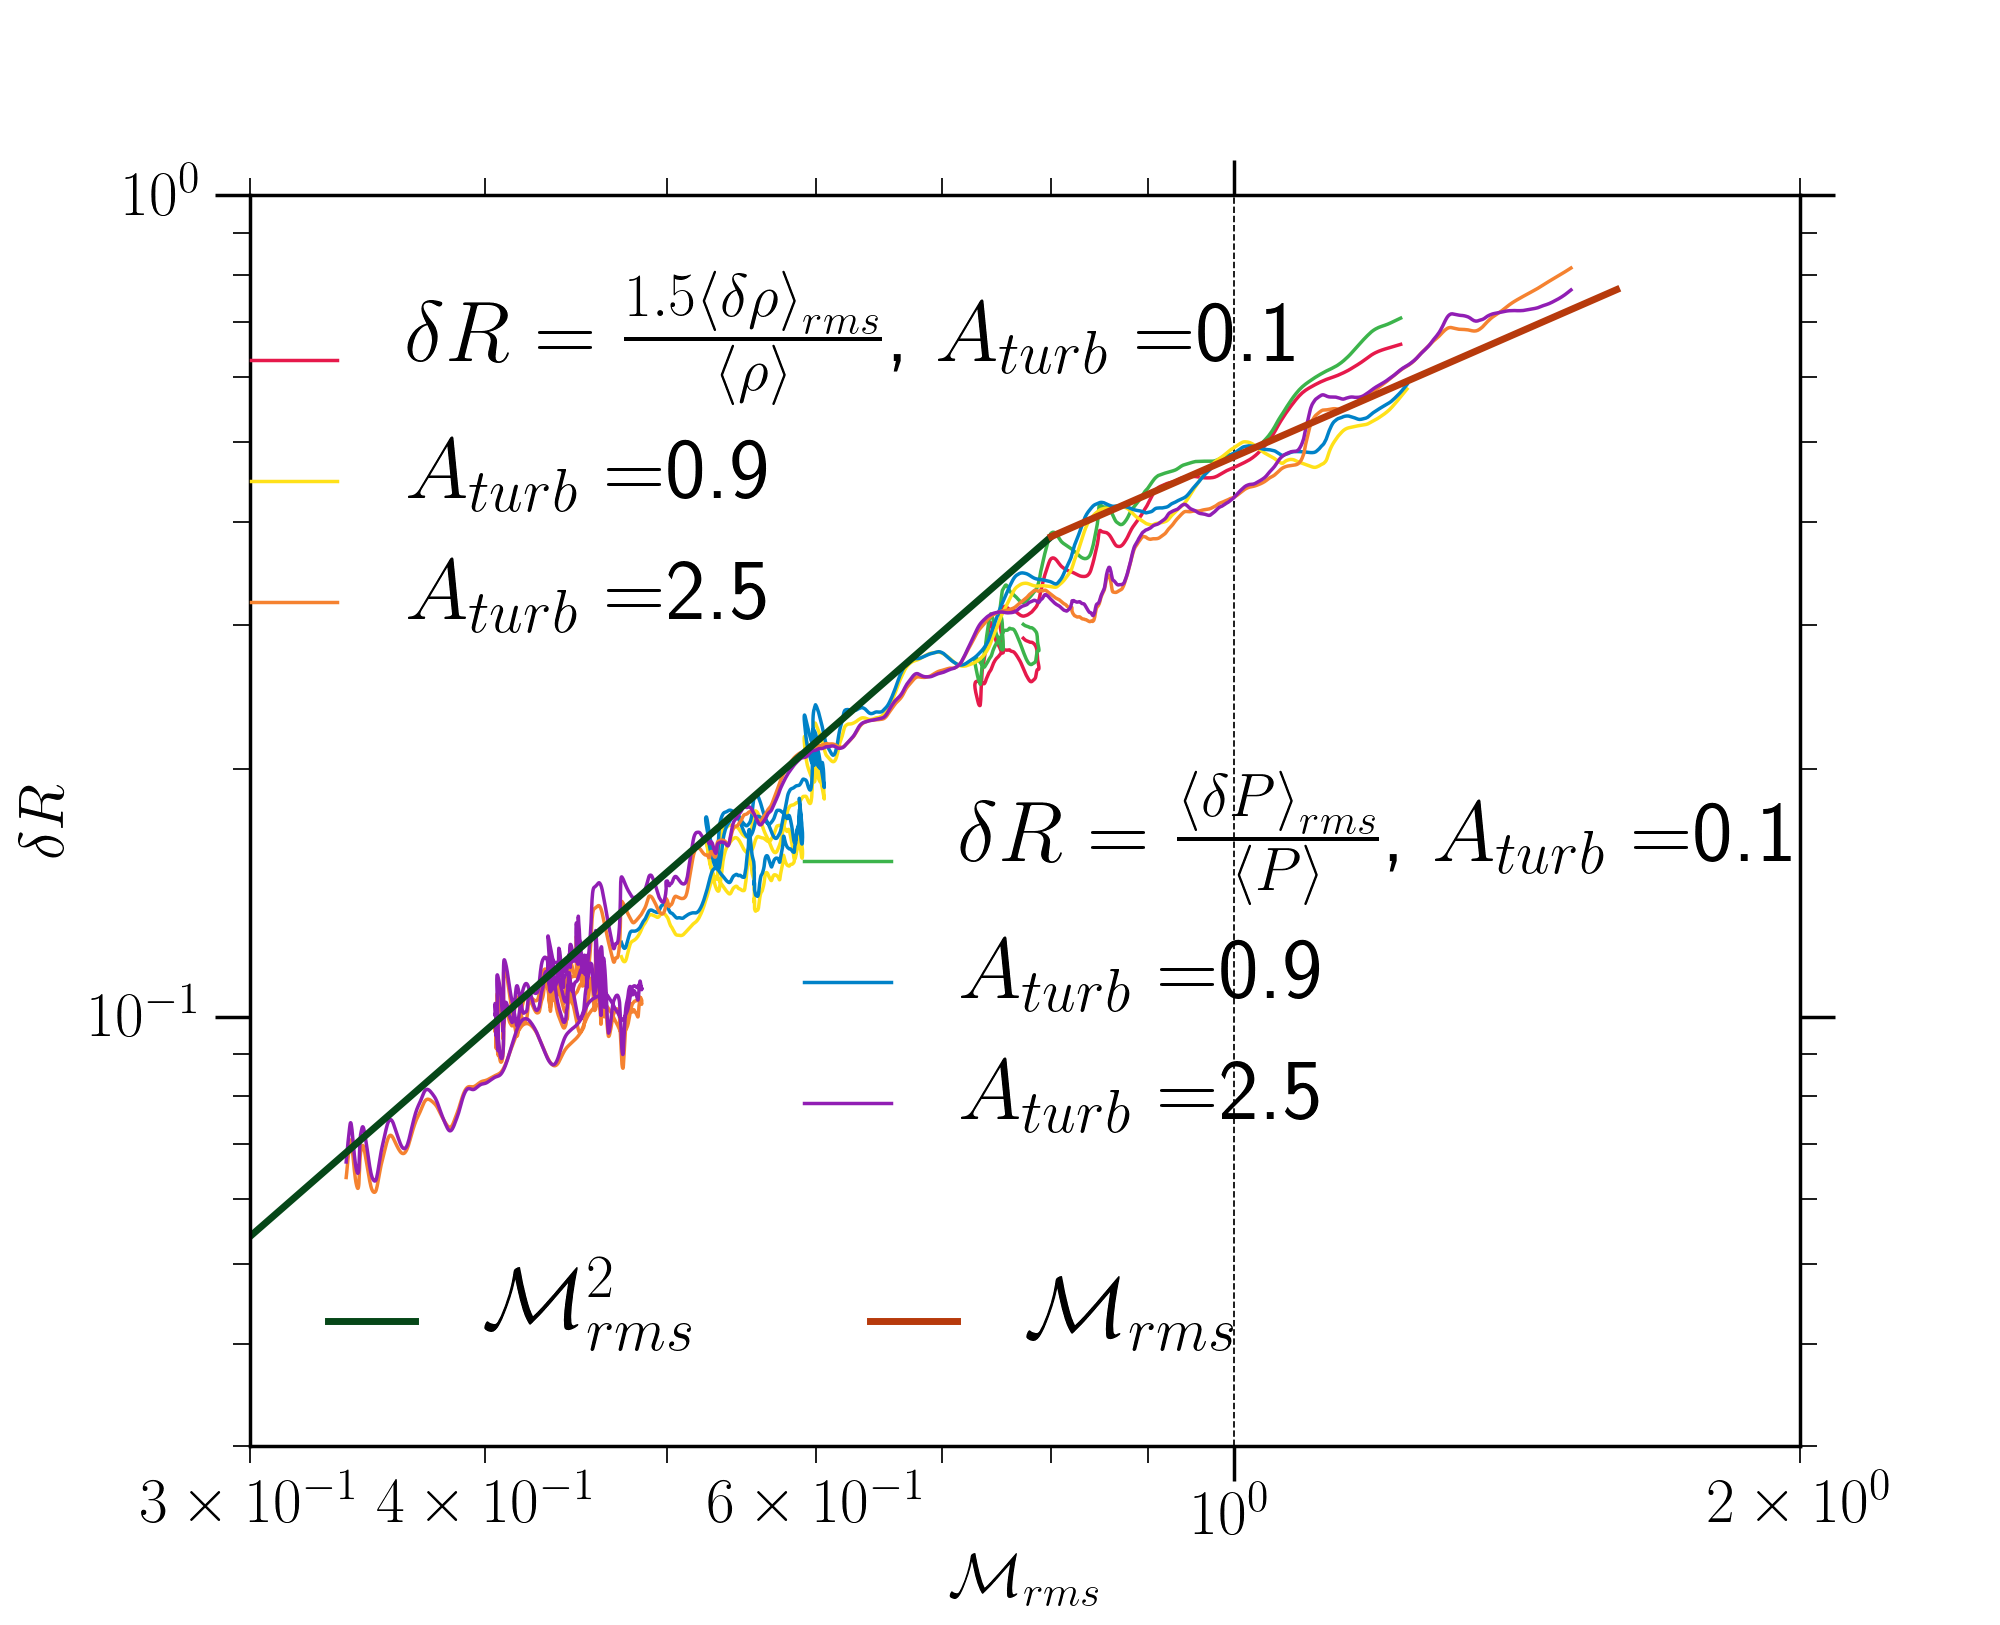
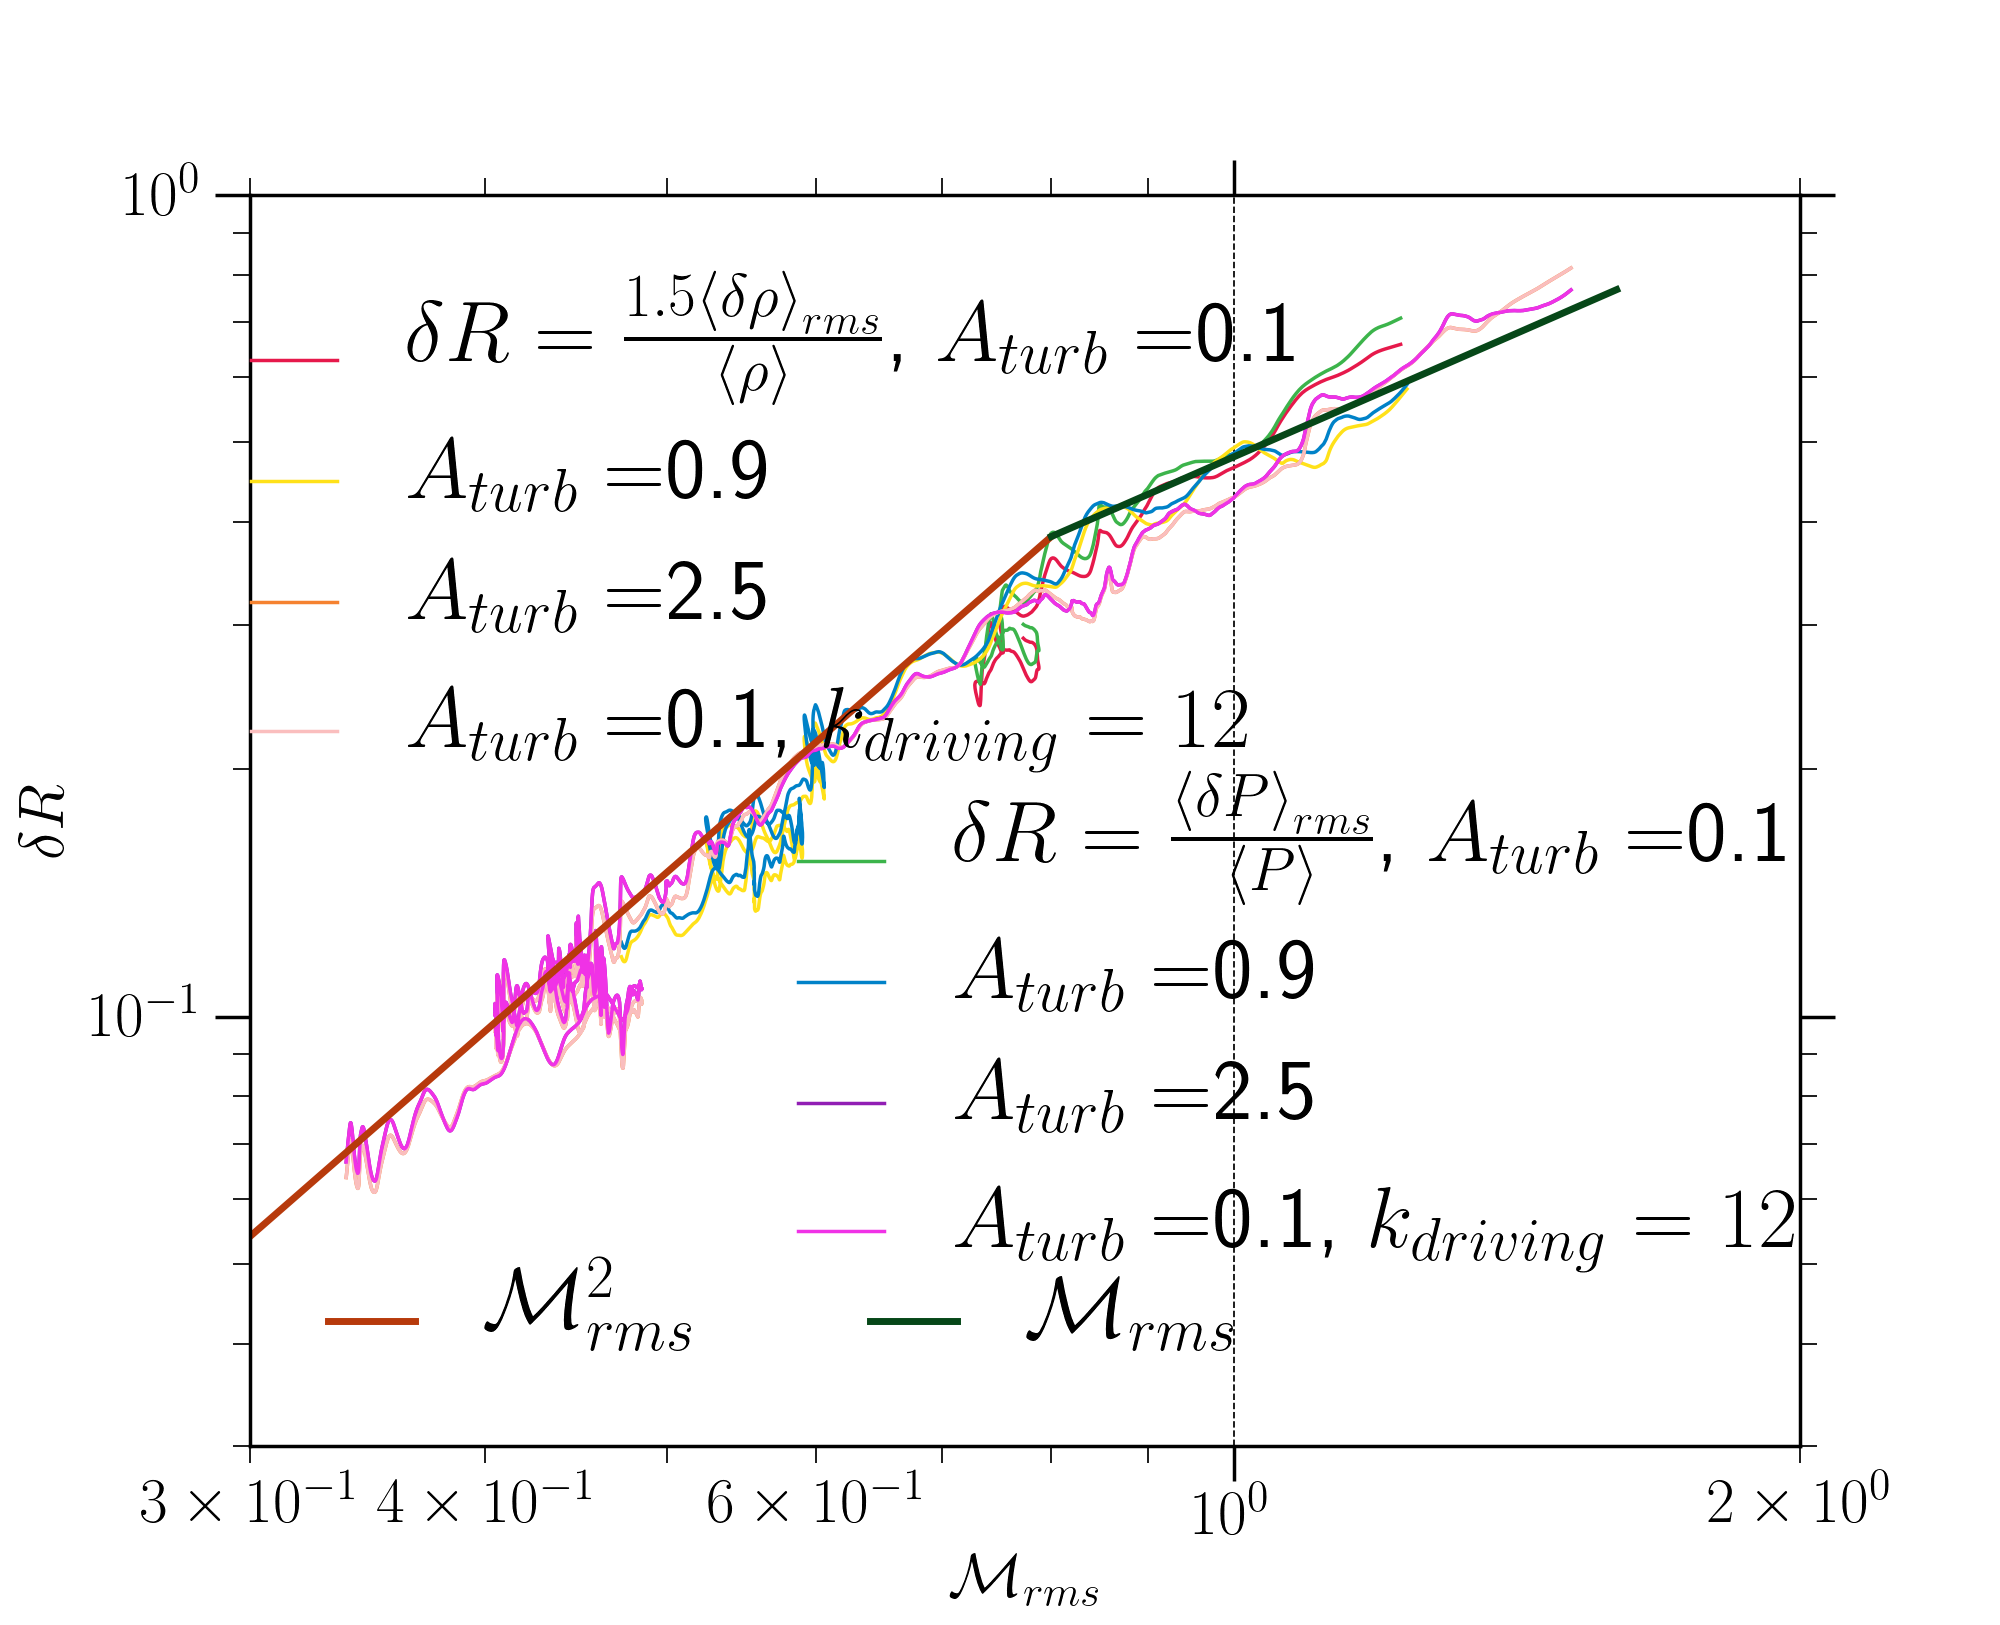
Added new plots and files and edited rho-mach

diff --git a/surface_brightness/sb_mach_fiducial.py b/surface_brightness/sb_mach_fiducial.py
@@ -1,0 +1,88 @@
+import numpy as np
+import matplotlib.pyplot as plt
+import pylab as plot
+
+#plt.style.use('classic')
+params = {'legend.fontsize':16,
+          'legend.handlelength': 1.0}
+plt.rcParams['axes.linewidth'] = 1.0
+plt.rcParams['xtick.major.size'] = 16
+plt.rcParams['xtick.minor.size'] = 8
+plt.rcParams['ytick.major.size'] = 14
+plt.rcParams['ytick.minor.size'] = 7
+plt.rcParams['xtick.labelsize'] = 18
+plt.rcParams['ytick.labelsize'] = 18
+plot.rcParams.update(params)
+
+plt.rc('text', usetex=True)
+
+#Declare all parameters and filenames, file location
+
+#Load data files
+amp=np.array((0.1,0.9,2.5))
+start=np.array((2.0,1.0,0.6))
+end=np.array((27., 37./5., 23./5.))
+step_size=0.2
+perturb = [None] * (amp.size)
+fit = [None] * 2
+#t_start sets time at which statistical equilibrium has been reached
+
+NUM_COLORS = 10
+colors=((230, 25, 75) , (60, 180, 75), (255, 225, 25), (0, 130, 200), (245, 130, 48), (145, 30, 180), (183, 58, 12), (240, 50, 230), (250, 190, 190), (6, 71, 24))
+colors=np.array(colors)/255.
+fig, ax = plt.subplots()
+for i1 in xrange(0,np.shape(amp)[0]):
+#	fig, ax = plt.subplots(1)
+	filedir='/mnt/lustre/ug4/ugrajs/fiducial_runs/256/amp'+str(int(amp[i1]*10000)).rjust(5,'0')+'/run2/'
+	snaps=int((end[i1]-start[i1])/step_size-1)
+	mach_rms=np.zeros((snaps))
+	del_R=np.zeros((snaps))
+	file1=filedir+'pluto_hst.out'
+	data = np.loadtxt(file1, skiprows=1)
+	for i in xrange(1, snaps):
+                fileno=str(i).rjust(4, '0')
+                sb=np.fromfile(filedir+'sbs'+fileno+'.dbl', dtype= 'double')
+                del_R[i]=np.std(sb)/np.average(sb)
+                mach_rms[i]=np.average(data[(data[:,0]>step_size*i)*(data[:,0]<step_size*i+1e-2)][:,11])
+	
+	#Ignore data before statistical equilibrium state
+	#Plot the data
+	if (i1==0): 
+		perturb[i1], =ax.plot(mach_rms, del_R,label=r'$\delta R=\frac{\left<\delta SB \right>_{rms}}{\left< SB \right>}$, $A_{turb}=$'+str(amp[i1]), color=colors[2*i1], marker=".", markeredgecolor='none', markersize=0.1, linewidth=1)
+	else: 
+		perturb[i1], =ax.plot(mach_rms, del_R, label=r'$A_{turb}=$'+str(amp[i1]), color=colors[2*i1], marker=".", markeredgecolor='none', markersize=0.1, linewidth=1)
+ 
+
+fig.set_size_inches(8, 6.5)
+ax.set_xlabel(r'$\mathcal{M}_{rms}$', fontsize=18)
+ax.set_ylabel(r'$\delta R$', fontsize=18)
+#ax.set_ylabel(r'$\frac{1.5\left<\delta\rho\right>_{rms}}{\left<\rho\right>}$, $\frac{\left<\delta P\right>_{rms}}{\left< P\right>}$', fontsize=16)
+x1=np.arange(0.3,0.8,0.002)
+y=np.arange(0.8,1.6,0.002)
+
+
+fit[0],= ax.plot(x1,0.4*x1**2,label=r'$\mathcal{M}_{rms}^2$', color=colors[9], linewidth=2.)
+fit[1],= ax.plot(y,0.3*y**1,label=r'$\mathcal{M}_{rms}$', color=colors[6], linewidth=2.)
+
+ax.set_yscale('log')
+ax.set_xscale('log')
+#ax.set_title(r'$\frac{\left<\delta\rho\right>_{rms}}{\left<\rho\right>}$ and $\frac{\left<\delta P\right>_{rms}}{\left< P\right>}$  vs $\left< \mathcal{M}\right>_{rms}$')
+ax.set_xlim(0.3,2.)
+ax.set_ylim(0.03,1)
+
+# Shrink current axis by 20%
+box = ax.get_position()
+ax.set_position([box.x0, box.y0, box.width, box.height])
+# Put a legend to the bottom of the current axis
+
+perturb_leg=ax.legend(handles=perturb, loc='upper left', bbox_to_anchor=(-0.05, 1.0), ncol=1, fontsize=25)
+ax.add_artist(perturb_leg)
+perturb_leg.get_frame().set_alpha(0.)
+fit_leg=ax.legend(handles=fit, loc='lower left', bbox_to_anchor=(0., 0.0), ncol=2, fontsize=25)
+fit_leg.get_frame().set_alpha(0.)
+
+ax.grid(color='black', linestyle='dashed', linewidth=.5, axis='x')
+ax.tick_params(axis='both', which='major', direction='out', length=10, width=1.0, top=True, right=True)
+ax.tick_params(axis='both', which='minor', direction='out', length=5, width=0.5, top=True, right=True)
+plt.savefig('sb-mach-fiducial.png',dpi=250)
+

diff --git a/rho-mach/density_mach_256.py b/rho-mach/density_mach_256.py
@@ -21,8 +21,9 @@ plt.rc('text', usetex=True)
 #Load data files
 amp=np.array((0.1,0.9,2.5))
 t_start=np.array((2.0,1.0,0.5))
-perturb1 = [None] * (amp.size)
-perturb2 = [None] * (amp.size)
+t_start_kh=0.53
+perturb1 = [None] * (amp.size+1)
+perturb2 = [None] * (amp.size+1)
 fit = [None] * 2
 #t_start sets time at which statistical equilibrium has been reached
 
@@ -57,9 +58,21 @@ ax.set_ylabel(r'$\delta R$', fontsize=18)
 x1=np.arange(0.3,0.8,0.002)
 y=np.arange(0.8,1.6,0.002)
 
+dir_kh='/mnt/lustre/ug4/ugrajs/higher_k/256/k12/amp00100/'
+file_kh=dir_kh+'pluto_hst.out'
+data_kh=np.loadtxt(file_kh, skiprows=1)
+for i in xrange(0,data_kh.shape[0]):
+  if data_kh[:,0][i]>t_start_kh:
+    break
+data_kh=data_kh[:][i:]
+#Ignore data before statistical equilibrium state
+perturb1[i1+1], =ax.plot(data[:,11],1.5*data[:,12],label=r'$A_{turb}=$'+str(amp[0])+', $k_{driving}=12$', color=colors[8], marker=".", markeredgecolor='none', markersize=0.1, linewidth=1.0)
+perturb2[i1+1], =ax.plot(data[:,11],data[:,13],label=r'$A_{turb}=$'+str(amp[0])+', $k_{driving}=12$', color=colors[7], marker="d", markeredgecolor='none', markersize=0.1, linewidth=1.0)
 
-fit[0],= ax.plot(x1,0.6*x1**2,label=r'$\mathcal{M}_{rms}^2$', color=colors[9], linewidth=2.)
-fit[1],= ax.plot(y,0.48*y**1,label=r'$\mathcal{M}_{rms}$', color=colors[6], linewidth=2.)
+
+
+fit[0],= ax.plot(x1,0.6*x1**2,label=r'$\mathcal{M}_{rms}^2$', color=colors[6], linewidth=2.)
+fit[1],= ax.plot(y,0.48*y**1,label=r'$\mathcal{M}_{rms}$', color=colors[9], linewidth=2.)
 
 ax.set_yscale('log')
 ax.set_xscale('log')
